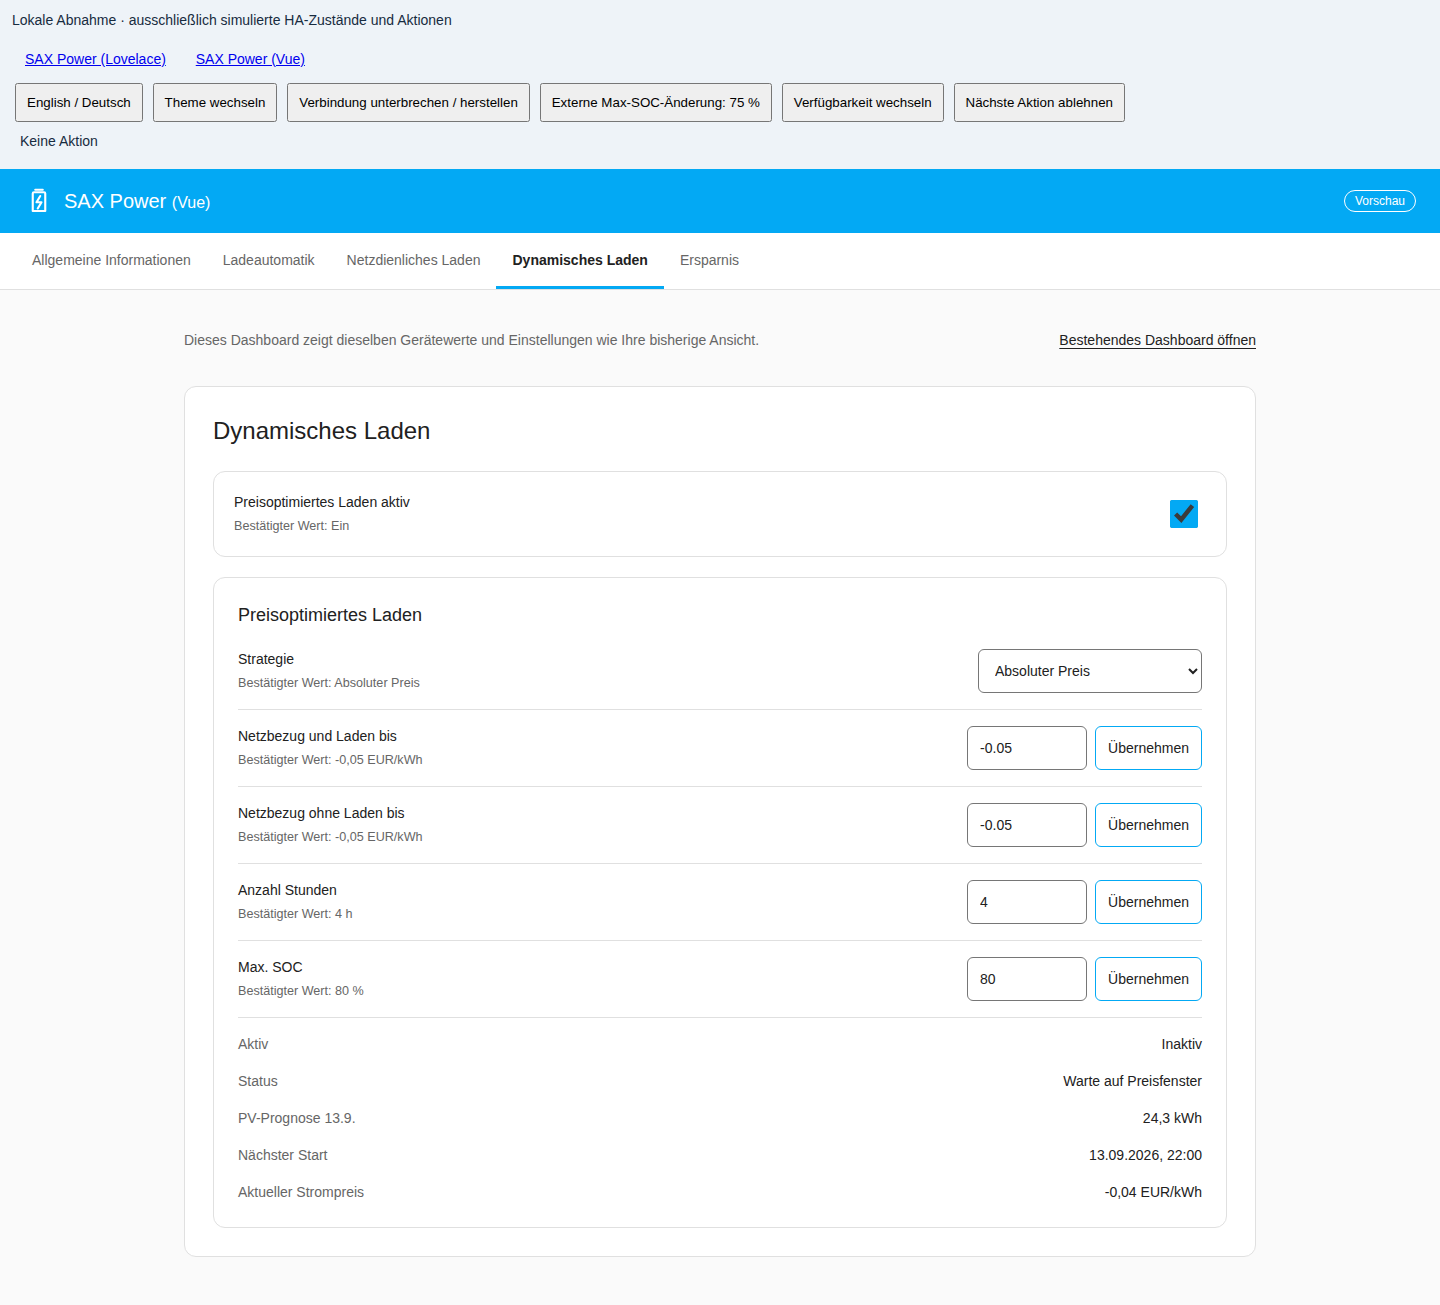
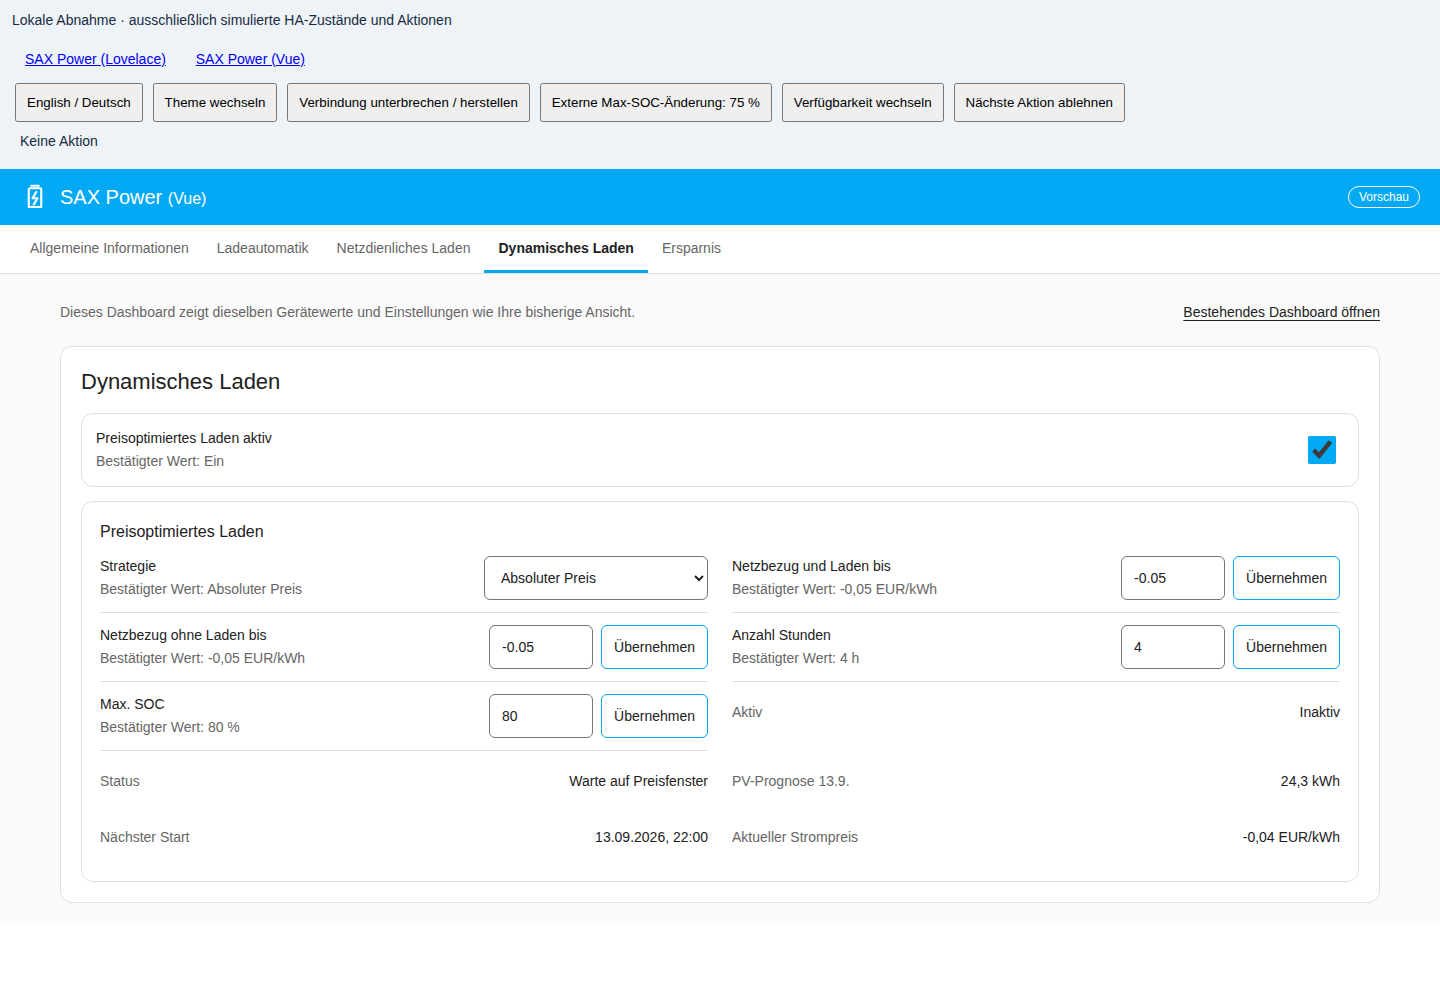
Dokumentiere den Platzgewinn mit geprüften Desktopansichten

diff --git a/docs/vue-dashboard-parity.md b/docs/vue-dashboard-parity.md
@@ -16,6 +16,14 @@ Entitäten und Lese-/Bedienberechtigungen werden dadurch berücksichtigt.
 
 ## Gemeinsame Daten- und Bedienregeln
 
+Breite Ansichten verwenden ein kompaktes Layout anhand der tatsächlich
+verfügbaren Panelbreite: zwei Kartenspalten ab 860 px Inhaltsbreite und drei
+Monatsspalten, ab 960 px vier Monatsspalten. Die Geräteübersicht ordnet Skalen
+und Leistung links neben den Gerätedaten an. Ersparnis gruppiert Amortisation
+und Kalenderwerte neben dem Tarif; die freie Auswertung nutzt die volle Breite.
+Die mobile Darstellung bleibt geräumig. Beschriftungen und Werte werden nicht
+abgeschnitten, Eingaben und Schaltflächen bleiben mindestens 44 px hoch.
+
 | Funktion | Verhalten | Automatisierte Prüfung |
 | --- | --- | --- |
 | Zugehörigkeit und Berechtigung | `sax_power/dashboard/subscribe` liefert nur aktive, lesbare SAX-Entitäten des angeforderten Eintrags mit `entity_id`, `domain`, `key`, `name`, `states` und `can_control`. | [Metadaten-API][metadata-tests] |
@@ -209,7 +217,38 @@ nicht benötigt. Das JSON-Ergebnis enthält Manifestversion, ZIP-SHA-256,
 Asset-SHA-256, Dateianzahl und Ergebnis. Die JS-Ausführung selbst wird separat
 im Produktionsmodul- und Browserlauf geprüft.
 
-### Abnahme der Gerätekarte und Schaltbestätigung
+### Abnahme der kompakten Desktopansichten
+
+[Commit e6cf1672d17b](https://github.com/dr-dimitri/sax-ha/commit/e6cf1672d17b35ffd586bb85b4dec12d567cb089)
+bestand am 12.09.2026 den vollständigen
+[CI-Lauf 34684553344](https://github.com/dr-dimitri/sax-ha/actions/runs/34684553344),
+einschließlich **199 Komponententests und 28 Browserfällen ohne Wiederholung
+oder übersprungene Browserfälle**. Die lokale Python-Gesamtsuite bestand mit
+1.813 Tests und zwei erwarteten Hardware-Skips. Der zusätzliche Browserfall
+vergleicht Entitäten und Bedienflächen über mehrere Panelbreiten und prüft
+Abmessungen, Schriftgrößen, Überlagerungen und Seitenüberläufe.
+
+Bei 1366 × 768 px Browsergröße reserviert der Test 256 px für eine simulierte
+HA-Seitenleiste. Die verbleibenden 1110 px Panelbreite ergeben folgende
+gerundete Höhen, einschließlich Panelkopf und Navigation, ohne Fixture-Leiste:
+
+| Ansicht | Vorher, lokale Browserprobe | Kompakt, CI | Weniger Höhe |
+| --- | --- | --- | --- |
+| Allgemeine Informationen | 1483 px | 762 px | 49 % |
+| Ladeautomatik | 2087 px | 977 px | 53 % |
+| Netzdienliches Laden | 1879 px | 937 px | 50 % |
+| Dynamisches Laden | 1136 px | 754 px | 34 % |
+| Ersparnis | 2059 px | 1492 px | 28 % |
+
+Die Vorher-Messung verwendet denselben deutschen Fixture-Inhalt aus
+Commit `f725cbe97b0c`, ebenfalls bei 1110 px Panelbreite. Zusätzlich geprüft
+wurden 1440 × 900 px ohne reservierte Seitenleiste sowie 390 × 844 px mobil,
+jeweils Deutsch/hell und Englisch/dunkel. Alle Inhalte bleiben vorhanden;
+höhere Texte oder eigene Entity-Namen dürfen Karten natürlich verlängern.
+Die Messwerte gelten für die dokumentierte Testansicht, nicht pauschal für
+alle HA-Themes und benutzerdefinierten Beschriftungen.
+
+### Frühere Abnahme der Gerätekarte und Schaltbestätigung
 
 [Commit 639695e5e347](https://github.com/dr-dimitri/sax-ha/commit/639695e5e3479f802c568704f3ae34f3e5bd473c)
 bestand am 12.09.2026 den vollständigen
@@ -273,9 +312,8 @@ Hardware-Skips**; Ruff und Black sind erfolgreich.
 
 ### Screenshots
 
-Die Bilder der allgemeinen Informationen und der Schaltbestätigung stammen aus
-CI-Lauf 34683284222. Die übrigen Ansichten stammen aus dem früheren Lauf
-34681752310 und bleiben unverändert. Der
+Alle Bilder wurden aus CI-Lauf 34684553344 übernommen. Sie zeigen die
+kompakten Desktopansichten und die weiterhin geräumige Mobilansicht. Der
 hell abgesetzte Testbereich kennzeichnet simulierte Daten und zeigt beide
 Dashboard-Einstiege; der Link innerhalb des Vue-Panels führt ebenfalls zu
 Lovelace. Die native Darstellung von Zeit- und Datumsfeldern folgt dem Browser,
